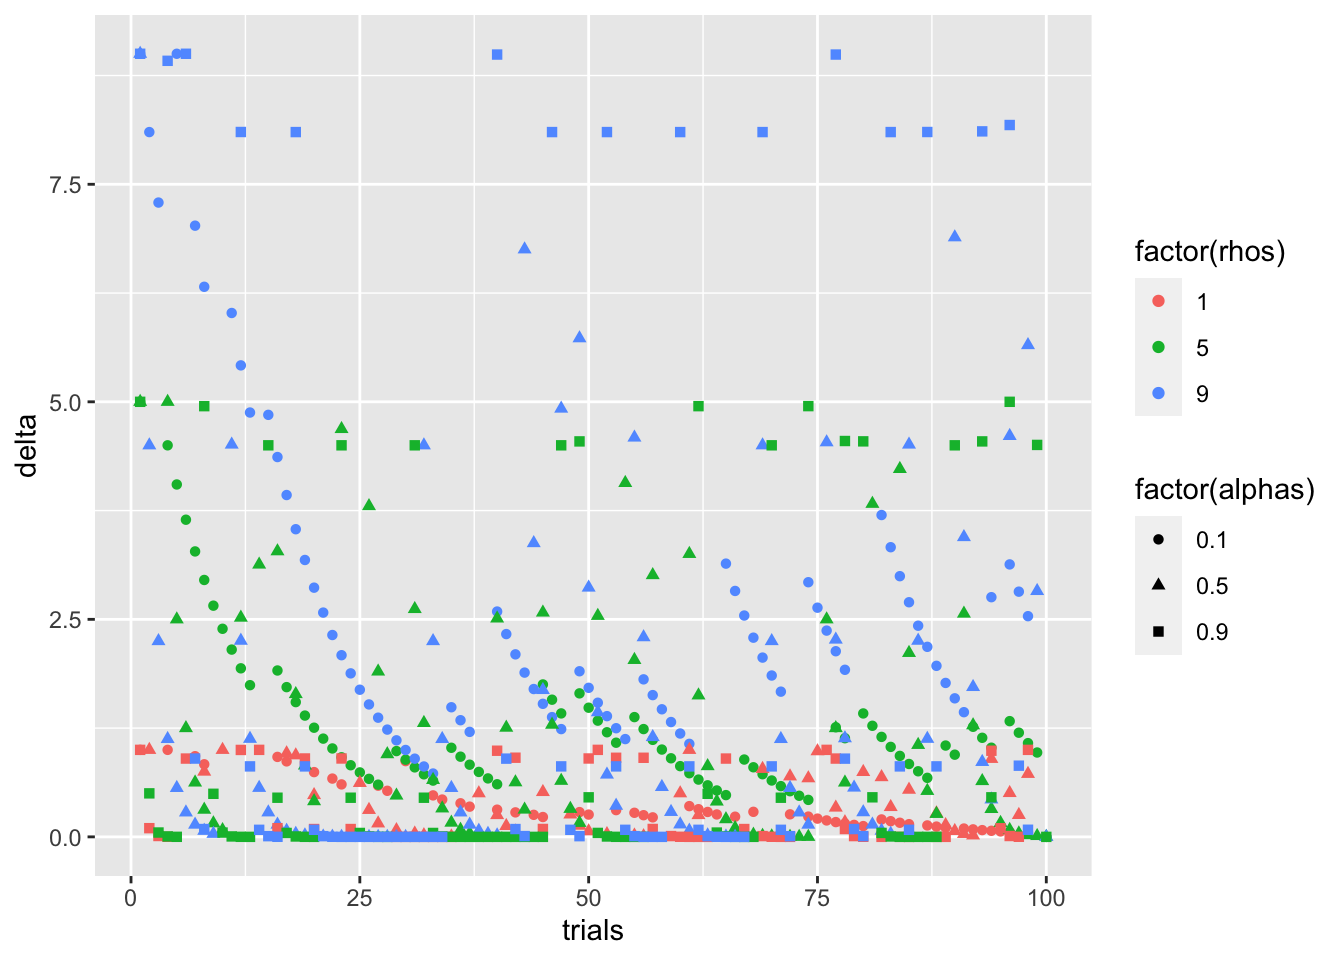
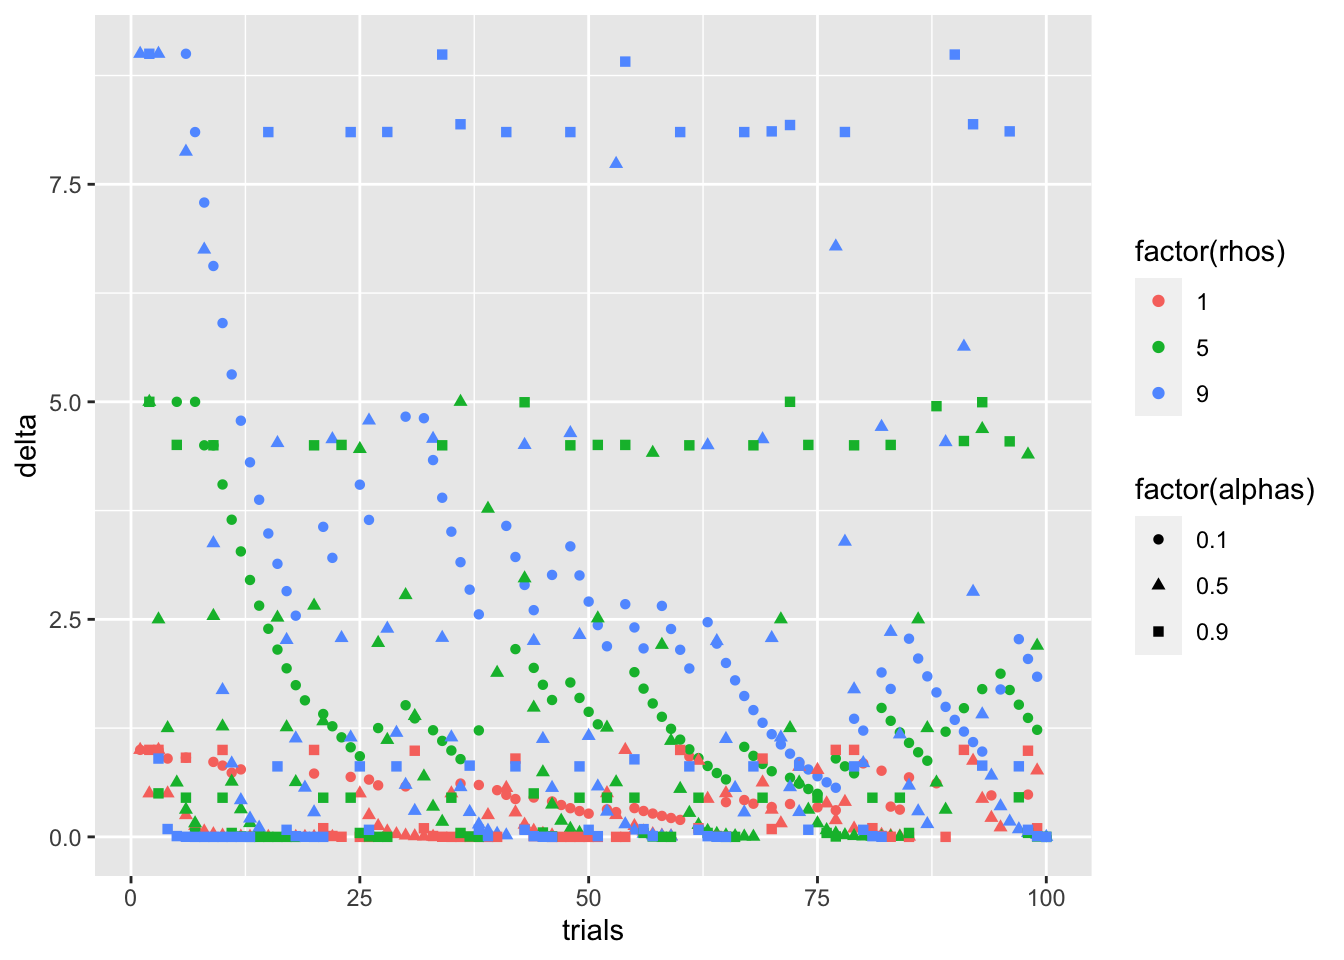
OK

diff --git a/docs/post/2022-03-12-/index.html b/docs/post/2022-03-12-/index.html
@@ -10,7 +10,7 @@
     <link rel="stylesheet" href='https://takutopsych.github.io/css/light.css' />
     <link rel="stylesheet" href='https://takutopsych.github.io/css/dark.css' />
     <link rel="stylesheet" href='https://takutopsych.github.io/css/syntax.css' />
-    <title>報酬感受性のパラメータをイジって予測誤差大きくなるか確認してみた - TakutoPsych Blog</title>
+    <title>報酬感受性のパラメータをイジって予測誤差大きくなるか確認してみたよ - TakutoPsych Blog</title>
     
     <link rel="icon" type="image/x-icon" href='/images/github.png'>
     
@@ -26,7 +26,7 @@
 
 
 <meta name="twitter:card" content="summary" />
-<meta name="twitter:title" content="報酬感受性のパラメータをイジって予測誤差大きくなるか確認してみた - TakutoPsych Blog" />
+<meta name="twitter:title" content="報酬感受性のパラメータをイジって予測誤差大きくなるか確認してみたよ - TakutoPsych Blog" />
 <meta name="twitter:description"
   content="Qの上限が上がってるんやからそりゃ予測誤差deltaも上がるわな" />
 <meta name="twitter:site" content="https://takutopsych.github.io/" />
@@ -36,11 +36,11 @@
 
 
 <meta property="og:type" content="article" />
-<meta property="og:title" content="報酬感受性のパラメータをイジって予測誤差大きくなるか確認してみた - TakutoPsych Blog">
+<meta property="og:title" content="報酬感受性のパラメータをイジって予測誤差大きくなるか確認してみたよ - TakutoPsych Blog">
 <meta property="og:description"
   content="Qの上限が上がってるんやからそりゃ予測誤差deltaも上がるわな" />
 <meta property="og:url" content="https://takutopsych.github.io/post/2022-03-12-/" />
-<meta property="og:site_name" content="報酬感受性のパラメータをイジって予測誤差大きくなるか確認してみた" />
+<meta property="og:site_name" content="報酬感受性のパラメータをイジって予測誤差大きくなるか確認してみたよ" />
 <meta property="og:image"
   content="https://takutopsych.github.io/">
 <meta property="og:image:width" content="2048">
@@ -123,7 +123,7 @@
                   <span class="author">
                     <a href="https://takutopsych.github.io/">TakutoPsych</a></span><span
                     class="path-divider">/</span><strong class="css-truncate-target mr-1" style="max-width: 410px"><a
-                      href="https://takutopsych.github.io/post/2022-03-12-/">報酬感受性のパラメータをイジって予測誤差大きくなるか確認してみた</a></strong>
+                      href="https://takutopsych.github.io/post/2022-03-12-/">報酬感受性のパラメータをイジって予測誤差大きくなるか確認してみたよ</a></strong>
                 </h1>
                 <div class="note m-0">
                   Created <relative-time datetime="Sat, 12 Mar 2022 00:00:00 &#43;0000"
@@ -132,9 +132,9 @@
 
                   
                   <span class="file-info-divider"></span>
-                  Modified <relative-time datetime="Sat, 12 Mar 2022 16:57:20 &#43;0900"
+                  Modified <relative-time datetime="Sat, 12 Mar 2022 17:20:59 &#43;0900"
                     class="no-wrap">
-                    Sat, 12 Mar 2022 16:57:20 &#43;0900</relative-time>
+                    Sat, 12 Mar 2022 17:20:59 &#43;0900</relative-time>
                   
                 </div>
               </div>
@@ -238,7 +238,7 @@
 <p>確率選択課題では、◯と△という刺激を参加者にに提示して◯もしくは△の選択をさせます。参加者が◯を選ぶと、80%で報酬のフィードバック、20%で報酬なしのフィードバックを得られます。一方△を選ぶと、確率を入れ替えて、20%で報酬のフィードバック、80%で報酬なしのフィードバックを得られます。課題によっては、報酬なしのフィードバックのところが罰のフィードバックになります。</p>
 <p>以下の図1の実験図は修論の図を少し改変したものです。その図の学習セッションが上に書いたものです。修論では、罰ありに設定して、70%, 30%の刺激ペアAB、60%, 40%の刺激ペアCDになっています。投稿したら読んでくだしゃい。</p>
 <div class="figure">
-<img src="images/posts/2022-03-12-/only_gain_probablistic_selection_task.001.jpeg"  alt="図1. 確率選択課題" />
+<img src="img/only_gain_probablistic_selection_task.001.jpeg" title="図1. 確率選択課題" alt="" />
 <p class="caption">図1. 確率選択課題</p>
 </div>
 <p>今回は、刺激ペア多いとめんどくさいし、テストセッションに興味ないし、パラメータ多いとめんどくさいので、標準的な80%で報酬のフィードバック20%で報酬なしのフィードバックを得られる刺激Aと20%で報酬のフィードバック80%で報酬なしのフィードバックを得られる刺激Bのペアを利用してシミュレーションしていきます。</p>
@@ -483,9 +483,9 @@ print(all_alphas_color_point)</code></pre>
 <pre class="r"><code>##mean
 with(simulation_DF, tapply(delta, list(rhos, alphas), mean))</code></pre>
 <pre><code>##          0.1        0.5        0.9
-## 1 0.09778483 0.02385826 0.01111100
-## 5 0.41273591 0.10072984 0.05105051
-## 9 0.68555725 0.15174041 0.00999091</code></pre>
+## 1 0.07760067 0.01286252 0.01100121
+## 5 0.43974304 0.08134765 0.05605056
+## 9 0.73435651 0.19261195 0.09999099</code></pre>
 <p>おっと、δの平均値だけ見ると、ρの高さが、δの大きさを予測してなさそうですね。</p>
 <p>ただ、図と合わせてみると、正の値であれ負の値であれδの絶対値の大きさに、ρが効きそうですね。絶対値の大きい正と絶対値の大きい負の値を足し合わせたから、0に近づいちゃったのかもしれません。</p>
 <p>てことで、以下の処理。</p>
@@ -527,10 +527,10 @@ print(only_gain_alphas_color_point)</code></pre>
 <p>ついでに記述統計。</p>
 <pre class="r"><code>##mean
 with(only_gain_trial_simulation_DF, tapply(delta, list(rhos, alphas), mean))</code></pre>
-<pre><code>##         0.1       0.5       0.9
-## 1 0.3473121 0.3946495 0.3093256
-## 5 1.2758536 1.2932214 1.0905484
-## 9 2.6267873 1.4558836 2.0444388</code></pre>
+<pre><code>##         0.1      0.5       0.9
+## 1 0.5209803 0.245039 0.2795644
+## 5 1.5913677 1.227705 1.4759570
+## 9 2.7257330 1.965298 2.2646805</code></pre>
 <p>報酬が得られなかった試行を取り除いたら、つまりδが負になる試行を取り除いたら、全試行では陰に隠れていたρの強烈なδへのパワーが現れましたね。</p>
 <p>報酬感受性ρがδの予測誤差を修飾していることが確認されました。動機づけを生み出すドパミンは、他のパラメータで修飾されているかもしれませんね。気持ちよさ(hedonic)を生み出すモルヒネがドパミンの修飾パラメータだと僕は思いました。まあ強化学習とかQ学習とか数理的な背景は置いておいても、報酬得られた時にその主観的な気持ちよさが大きくなれば、そりゃその行動の動機づけ高まりますよね、多分。そいえば、射精時の主観的な気持ちよさが、オピオイド拮抗薬を入れたら下がったり<span class="citation">(<a href="#ref-Murphy1990" role="doc-biblioref">Murphy et al. 1990</a>)</span>するんで、まあ報酬それ自体の気持ち良さの修飾にオピオイド効いているような気はします。強化学習の報酬の文脈とはズレるけども。</p>
 <p>あと、すっごいどうでもいい後書きなんですけど、αを「あるふぁ」と打って変換で入力していたのですが、いっぱい「あるふぁ」を打っていたら、アルファタウリにF1頑張ってほしいなって思いました。すっごいどうでもいい後書き失礼しました。</p>

diff --git a/docs/index.html b/docs/index.html
@@ -503,7 +503,7 @@
                     </path>
                   </svg>
                   <a class="text-bold flex-auto min-width-0" href="https://takutopsych.github.io/post/2022-03-12-/">
-                    <span class="repo" title="報酬感受性のパラメータをイジって予測誤差大きくなるか確認してみた">報酬感受性のパラメータをイジって予測誤差大きくなるか確認してみた</span>
+                    <span class="repo" title="報酬感受性のパラメータをイジって予測誤差大きくなるか確認してみたよ">報酬感受性のパラメータをイジって予測誤差大きくなるか確認してみたよ</span>
                   </a>
                 </div>
 
@@ -612,7 +612,7 @@
     
     <div class="mt-4 position-relative" id="contributions" data='[
 {
-  "title": "%e5%a0%b1%e9%85%ac%e6%84%9f%e5%8f%97%e6%80%a7%e3%81%ae%e3%83%91%e3%83%a9%e3%83%a1%e3%83%bc%e3%82%bf%e3%82%92%e3%82%a4%e3%82%b8%e3%81%a3%e3%81%a6%e4%ba%88%e6%b8%ac%e8%aa%a4%e5%b7%ae%e5%a4%a7%e3%81%8d%e3%81%8f%e3%81%aa%e3%82%8b%e3%81%8b%e7%a2%ba%e8%aa%8d%e3%81%97%e3%81%a6%e3%81%bf%e3%81%9f",
+  "title": "%e5%a0%b1%e9%85%ac%e6%84%9f%e5%8f%97%e6%80%a7%e3%81%ae%e3%83%91%e3%83%a9%e3%83%a1%e3%83%bc%e3%82%bf%e3%82%92%e3%82%a4%e3%82%b8%e3%81%a3%e3%81%a6%e4%ba%88%e6%b8%ac%e8%aa%a4%e5%b7%ae%e5%a4%a7%e3%81%8d%e3%81%8f%e3%81%aa%e3%82%8b%e3%81%8b%e7%a2%ba%e8%aa%8d%e3%81%97%e3%81%a6%e3%81%bf%e3%81%9f%e3%82%88",
   "link": "https://takutopsych.github.io/post/2022-03-12-/",
   "publishDate": "2022-03-12%2000:00:00"
 },

diff --git a/docs/post/index.html b/docs/post/index.html
@@ -482,7 +482,7 @@
           <div class="col-12 d-inline-block">
             <div class="d-inline-block mb-1">
               <h3 class="wb-break-all">
-                <a href="https://takutopsych.github.io/post/2022-03-12-/">報酬感受性のパラメータをイジって予測誤差大きくなるか確認してみた</a>
+                <a href="https://takutopsych.github.io/post/2022-03-12-/">報酬感受性のパラメータをイジって予測誤差大きくなるか確認してみたよ</a>
               </h3>
             </div>
 

diff --git a/docs/tags/勉強/index.html b/docs/tags/勉強/index.html
@@ -501,7 +501,7 @@
           <div class="col-12 d-inline-block">
             <div class="d-inline-block mb-1">
               <h3 class="wb-break-all">
-                <a href="https://takutopsych.github.io/post/2022-03-12-/">報酬感受性のパラメータをイジって予測誤差大きくなるか確認してみた</a>
+                <a href="https://takutopsych.github.io/post/2022-03-12-/">報酬感受性のパラメータをイジって予測誤差大きくなるか確認してみたよ</a>
               </h3>
             </div>
 

diff --git a/docs/tags/強化学習/index.html b/docs/tags/強化学習/index.html
@@ -501,7 +501,7 @@
           <div class="col-12 d-inline-block">
             <div class="d-inline-block mb-1">
               <h3 class="wb-break-all">
-                <a href="https://takutopsych.github.io/post/2022-03-12-/">報酬感受性のパラメータをイジって予測誤差大きくなるか確認してみた</a>
+                <a href="https://takutopsych.github.io/post/2022-03-12-/">報酬感受性のパラメータをイジって予測誤差大きくなるか確認してみたよ</a>
               </h3>
             </div>
 

diff --git a/docs/tags/統計/index.html b/docs/tags/統計/index.html
@@ -501,7 +501,7 @@
           <div class="col-12 d-inline-block">
             <div class="d-inline-block mb-1">
               <h3 class="wb-break-all">
-                <a href="https://takutopsych.github.io/post/2022-03-12-/">報酬感受性のパラメータをイジって予測誤差大きくなるか確認してみた</a>
+                <a href="https://takutopsych.github.io/post/2022-03-12-/">報酬感受性のパラメータをイジって予測誤差大きくなるか確認してみたよ</a>
               </h3>
             </div>
 
